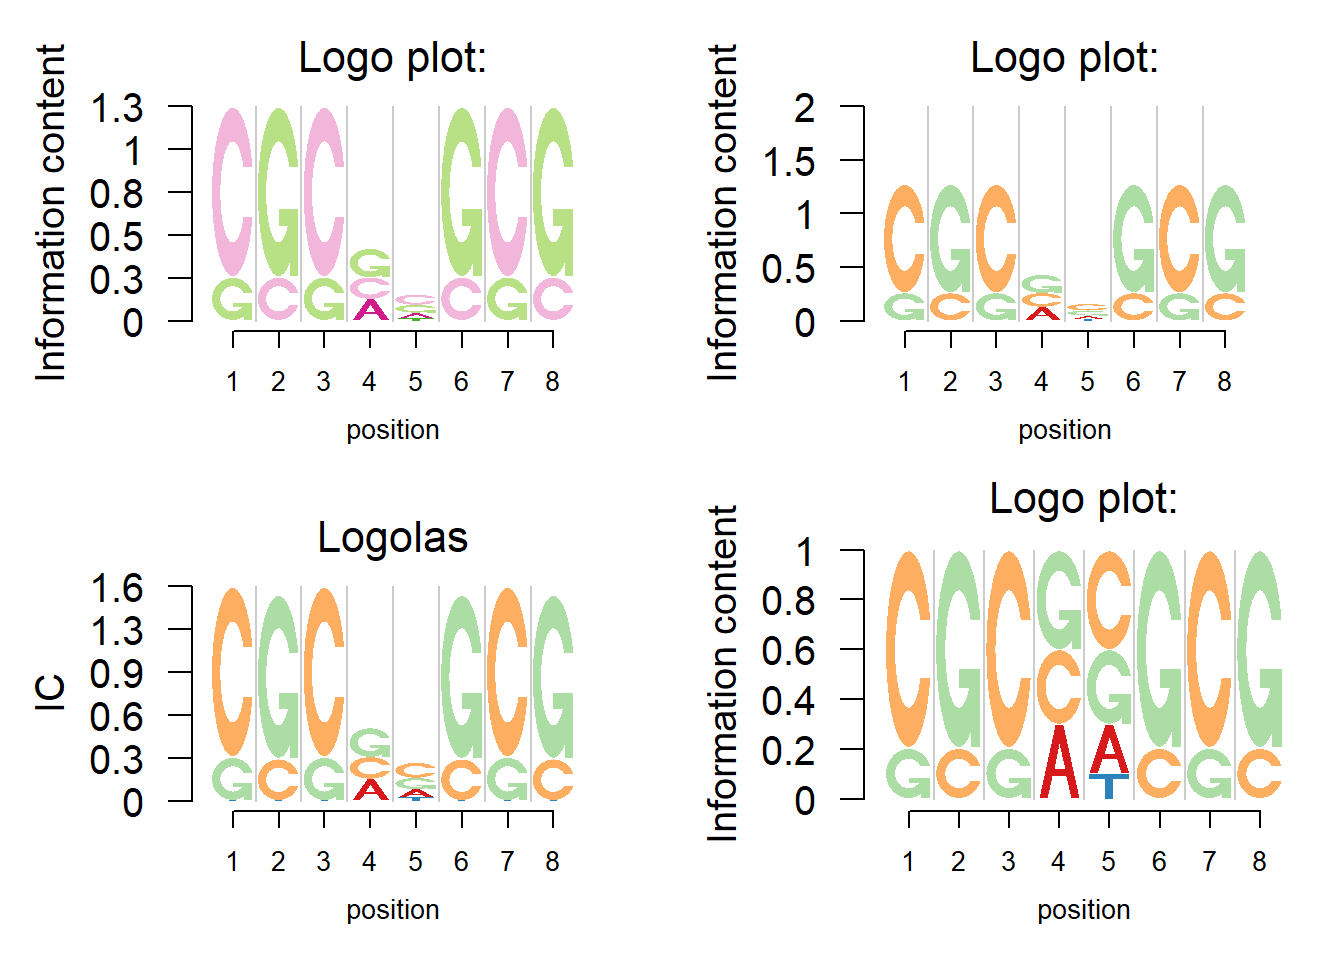
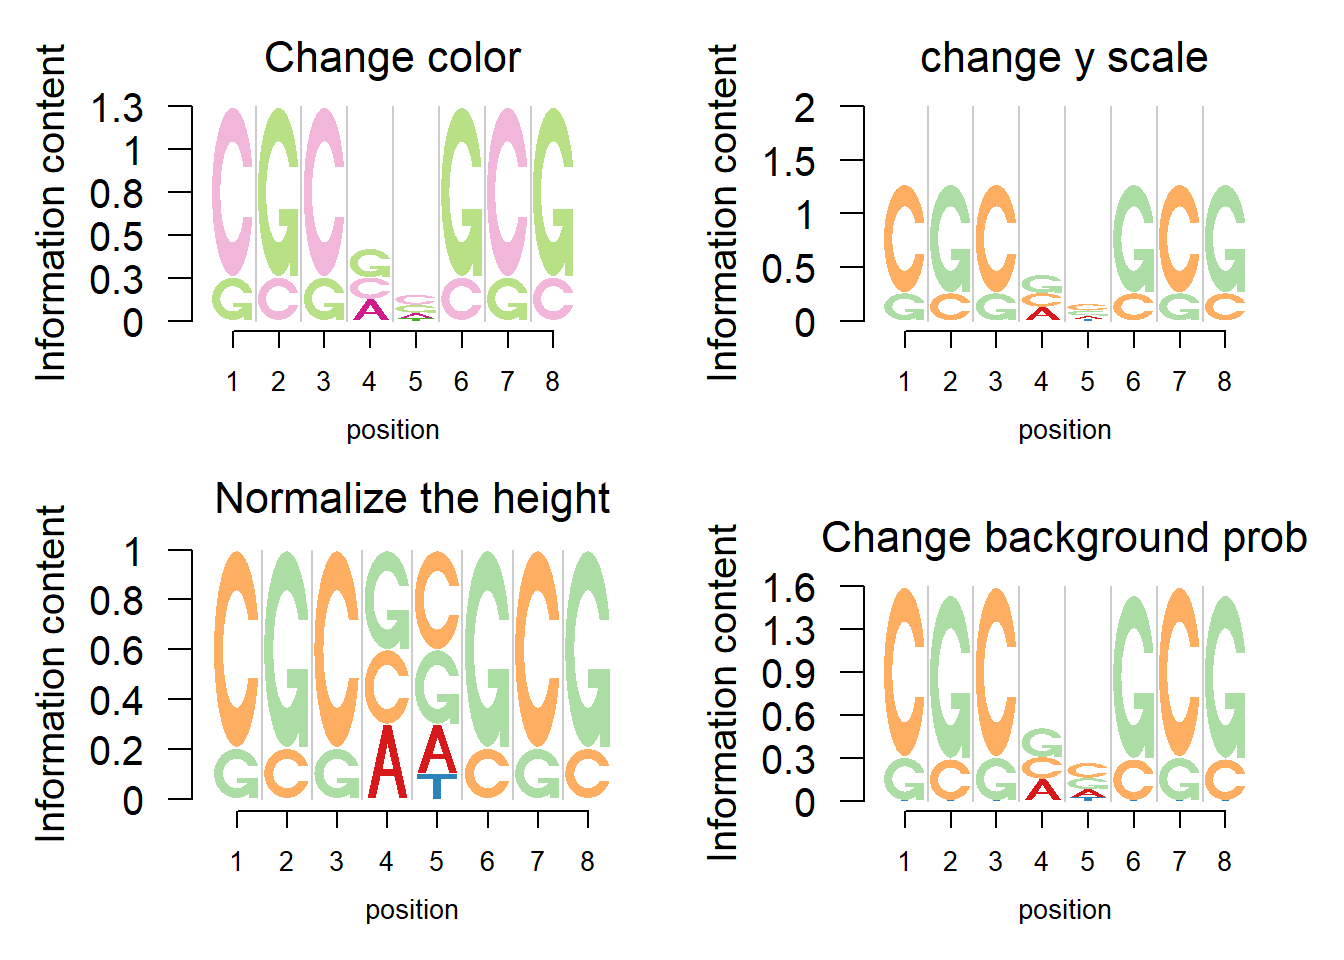
Build site.

diff --git a/docs/FirstLook.html b/docs/FirstLook.html
@@ -316,7 +316,7 @@ shared across the workflowr files. -->
 <p><strong>Last updated:</strong> 2017-08-24</p>
 <!-- Insert the code version (Git commit SHA1) if Git repository exists and R
  package git2r is installed -->
-<p><strong>Code version:</strong> 2264079</p>
+<p><strong>Code version:</strong> 46898f9</p>
 <!-- Add your analysis here -->
 <div id="first-look-at-logolas" class="section level1">
 <h1>First look at Logolas</h1>
@@ -366,6 +366,7 @@ seekViewport(paste0(&quot;plotlogo&quot;, 1))
 logomaker(p@pwm,xlab = &#39;position&#39;,color_profile = color_profile1,
           frame_width = 1,
           newpage = FALSE,
+          pop_name = &#39;Change color&#39;,
           control = list(viewport.margin.left = 5))
 
 #change the y scale:
@@ -374,24 +375,25 @@ seekViewport(paste0(&quot;plotlogo&quot;, 2))
 logomaker(p@pwm,xlab = &#39;position&#39;,color_profile = color_profile,
           frame_width = 1,
           newpage = FALSE,
+          pop_name = &#39;change y scale&#39;,
           yscale_change = FALSE,
           control = list(viewport.margin.left = 5))
 #Normalize the height of bars to 1
-seekViewport(paste0(&quot;plotlogo&quot;, 4))
+seekViewport(paste0(&quot;plotlogo&quot;, 3))
 logomaker(p@pwm,xlab = &#39;position&#39;,color_profile = color_profile,
           frame_width = 1,
           newpage = FALSE,
           ic.scale = FALSE,
+          pop_name = &#39;Normalize the height&#39;,
           control = list(viewport.margin.left = 5))
 #change the background probability
-#And #modify the title and the axis label 
-seekViewport(paste0(&quot;plotlogo&quot;, 3))
+#And modify the title and the axis label 
+seekViewport(paste0(&quot;plotlogo&quot;, 4))
 logomaker(p@pwm,xlab = &#39;position&#39;,color_profile = color_profile,
           frame_width = 1,
           bg=c(0.32, 0.18, 0.2, 0.3),
           newpage = FALSE,
-          ylab = &#39;IC&#39;,
-          pop_name = &#39;Logolas&#39;,
+          pop_name = &#39;Change background prob&#39;,
           control = list(viewport.margin.left = 5))</code></pre>
 <p><img src="figure/FirstLook.Rmd/unnamed-chunk-3-1.png" width="672" style="display: block; margin: auto;" /></p>
 </div>
@@ -497,6 +499,7 @@ nlogomaker(p@pwm,
            color_profile = color_profile,
            frame_width = 1,
            newpage = FALSE,
+           pop_name = &#39;Weight=0.1&#39;,
            control = list(depletion_weight=0.1))
 
 
@@ -506,6 +509,7 @@ nlogomaker(p@pwm,
            color_profile = color_profile,
            frame_width = 1,
            newpage = FALSE,
+            pop_name = &#39;Weight=0.3&#39;,
            control = list(depletion_weight=0.3))
 
 seekViewport(paste0(&quot;plotlogo&quot;, 3))
@@ -514,6 +518,7 @@ nlogomaker(p@pwm,
            color_profile = color_profile,
            frame_width = 1,
            newpage = FALSE,
+            pop_name = &#39;Weight=0.5&#39;,
            control = list(depletion_weight=0.5))
 
 seekViewport(paste0(&quot;plotlogo&quot;, 4))
@@ -522,6 +527,7 @@ nlogomaker(p@pwm,
            color_profile = color_profile,
            frame_width = 1,
            newpage = FALSE,
+            pop_name = &#39;Weight=1&#39;,
            control = list(depletion_weight=1))</code></pre>
 <p><img src="figure/FirstLook.Rmd/unnamed-chunk-6-1.png" width="672" style="display: block; margin: auto;" /></p>
 </div>
